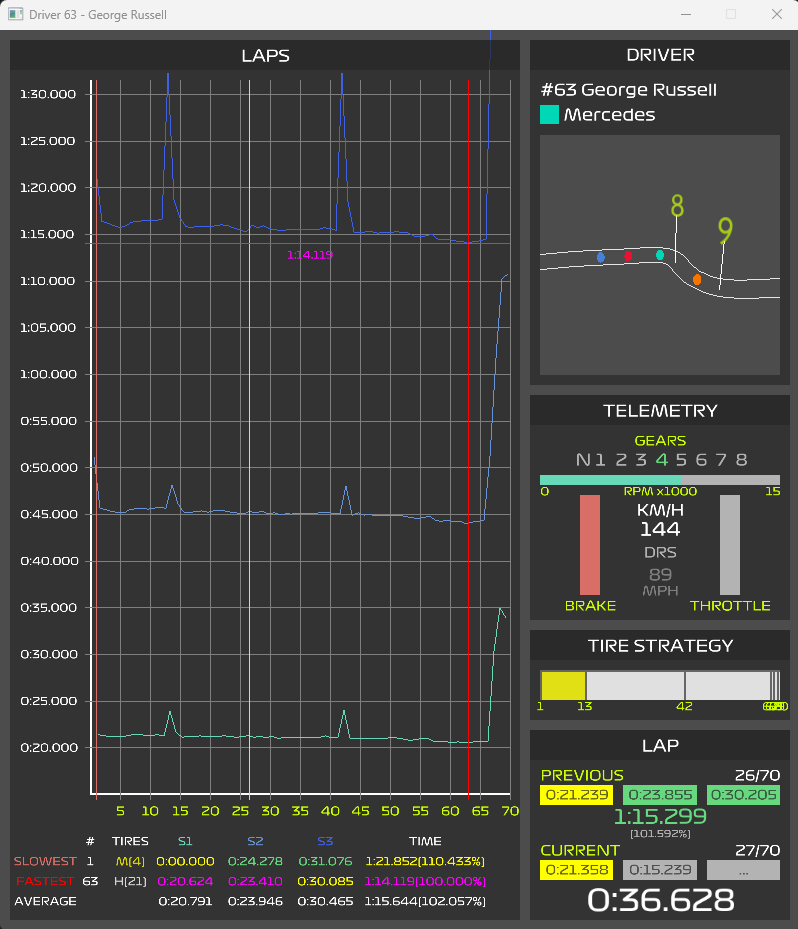
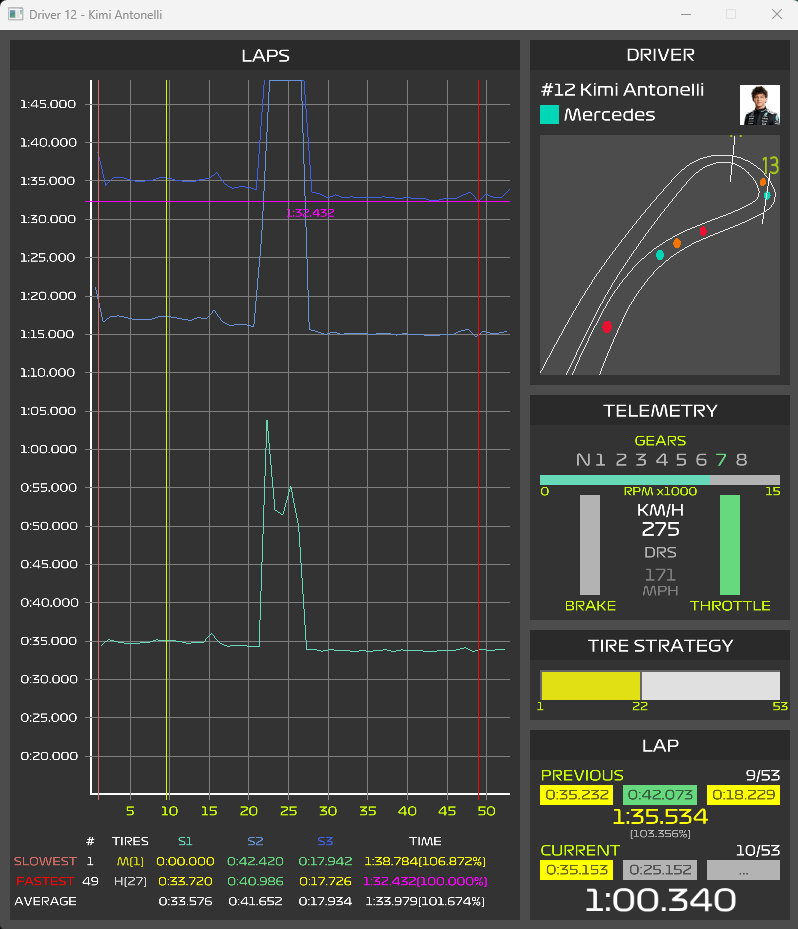
implemented headshots on driver window

diff --git a/src/f1p/ui/components/driver/window.py b/src/f1p/ui/components/driver/window.py
@@ -1,8 +1,11 @@
 from decimal import Decimal
 from math import ceil
+from pathlib import Path
 
 import pandas as pd
+import requests
 from direct.gui.DirectFrame import DirectFrame
+from direct.gui.OnscreenImage import OnscreenImage
 from direct.gui.OnscreenText import OnscreenText
 from direct.showbase.DirectObject import DirectObject
 from direct.showbase.ShowBase import ShowBase
@@ -16,7 +19,7 @@ from panda3d.core import (
     PGTop,
     Point3,
     TextNode,
-    VBase4,
+    TransparencyAttrib, VBase4,
     Vec4,
     WindowProperties,
 )
@@ -37,6 +40,7 @@ class DriverWindow(DirectObject):
         last_name: str,
         team_color_obj: LVecBase4f,
         team_name: str,
+        headshot_url: str,
         app: ShowBase,
         data_extractor: DataExtractorService,
     ):
@@ -54,6 +58,7 @@ class DriverWindow(DirectObject):
         self.last_name = last_name
         self.team_color_obj = team_color_obj
         self.team_name = team_name
+        self.headshot_url = headshot_url
         self.app = app
         self.data_extractor = data_extractor
 
@@ -313,6 +318,24 @@ class DriverWindow(DirectObject):
 
         return self._camera_np
 
+    @property
+    def local_headshot_url(self) -> str:
+        file_name = f"{self.driver_number}_{self.first_name}_{self.last_name}_{self.data_extractor.session_parser.year}.png"
+        dir_path =  Path("./src/f1p/ui/components/driver/headshots")
+
+        if not dir_path.exists():
+            dir_path.mkdir()
+
+        local_path = dir_path / file_name
+
+        if local_path.exists():
+            return str(local_path)
+
+        local_path.write_bytes(requests.get(self.headshot_url).content)
+
+        return str(local_path)
+
+
     def make_camera_region(self) -> None:
         width = 240
         padding_x = 10
@@ -384,6 +407,22 @@ class DriverWindow(DirectObject):
             fg=Colors.WHITE,
             pos=(33, self.driver_frame_height - title_frame_height - 50, 0),
         )
+
+        headshot_frame = DirectFrame(
+            parent=frame,
+            frameColor=Colors.WHITE,
+            frameSize=(-20, 20, -20, 20),
+            pos=(260 - 10 - 20, 0, self.driver_frame_height - title_frame_height - 35),
+            sortOrder=20,
+        )
+
+        headshot = OnscreenImage(
+            parent=headshot_frame,
+            image=self.local_headshot_url,
+            pos=Point3(0, 0, 0),
+            scale=20,
+        )
+        headshot.setTransparency(TransparencyAttrib.MAlpha)
 
     def make_telemetry_widget(self) -> None:
         width = 260

diff --git a/src/f1p/ui/components/driver/component.py b/src/f1p/ui/components/driver/component.py
@@ -21,6 +21,7 @@ class Driver(DirectObject):
         broadcast_name: str,
         abbreviation: str,
         team_name: str,
+        headshot_url: str,
         data_extractor: DataExtractorService,
         node_path: NodePath = None,
     ):
@@ -33,6 +34,7 @@ class Driver(DirectObject):
         self.broadcast_name = broadcast_name
         self.abbreviation = abbreviation
         self.team_name = team_name
+        self.headshot_url = headshot_url
         self.data_extractor = data_extractor
         self.node_path = node_path
 
@@ -75,6 +77,7 @@ class Driver(DirectObject):
                 self.last_name,
                 self.team_color_obj,
                 self.team_name,
+                self.headshot_url,
                 self.app,
                 self.data_extractor,
             )
@@ -112,6 +115,7 @@ class Driver(DirectObject):
             broadcast_name=driver_sr["BroadcastName"],
             abbreviation=driver_sr["Abbreviation"],
             team_name=driver_sr["TeamName"],
+            headshot_url=driver_sr["HeadshotUrl"],
             data_extractor=data_extractor,
             node_path=cls.create_node_path(parent, driver_sr["TeamColor"]),
         )
